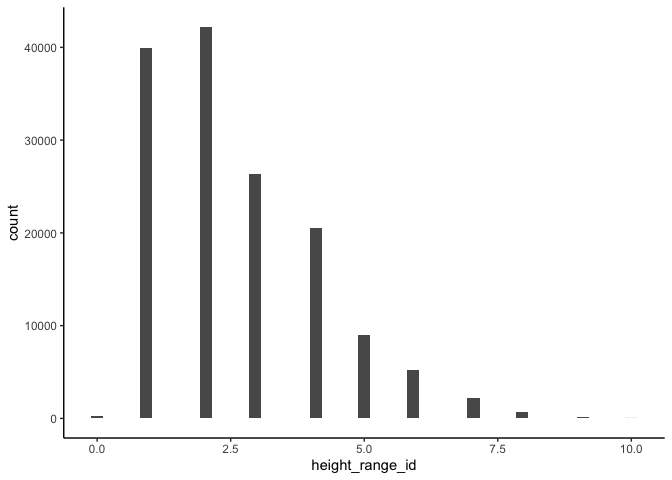
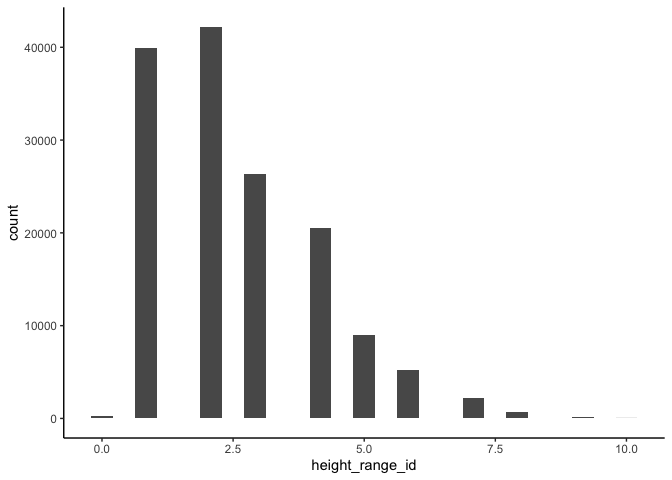
Trimming diameter outliers in excercise 2, completed task 3

diff --git a/MDA.md b/MDA.md
@@ -1,7 +1,26 @@
 Mini data analysis
 ================
 Katie Tjaden-McClement
-October 10, 2021
+October 12, 2021
+
+-   [Introduction](#introduction)
+-   [**Task 1**](#task-1)
+    -   [1.1 Initial Dataset Selection](#11-initial-dataset-selection)
+    -   [1.2 Dataset Exploration](#12-dataset-exploration)
+    -   [1.3 Narrowing down dataset
+        choice](#13-narrowing-down-dataset-choice)
+    -   [1.4 Potential research
+        questions](#14-potential-research-questions)
+-   [**Task 2**](#task-2)
+    -   [Excercise 1: Visualize missing
+        values](#excercise-1-visualize-missing-values)
+    -   [Excercise 2: Distribution of tree size
+        metrics](#excercise-2-distribution-of-tree-size-metrics)
+    -   [Excercise 3: Log-transforming size
+        metrics](#excercise-3-log-transforming-size-metrics)
+    -   [Excercise 4: Relationship between root\_barrier and
+        diameter](#excercise-4-relationship-between-root_barrier-and-diameter)
+-   [**Task 3**](#task-3)
 
 ### Introduction
 
@@ -184,7 +203,7 @@ research questions it will allow me to explore.
 Before diving into exploring the *vancouver\_trees* dataset I read
 through the [dataset
 documentation](https://opendata.vancouver.ca/explore/dataset/street-trees/information/?disjunctive.species_name&disjunctive.common_name&disjunctive.height_range_id)
-to get a clearer understanding of what the different variable are and
+to get a clearer understanding of what the different variables are and
 how the data was collected.
 
 I will also load the dataset into my R environment, renaming it to the
@@ -197,7 +216,7 @@ trees <- vancouver_trees
 trees$root_barrier <- as.factor(trees$root_barrier)
 ```
 
-### Excersise 1: Visualize missing values
+### Excercise 1: Visualize missing values
 
 Knowing how many missing values there are throughout the dataset is
 important. The [nanier](https://github.com/njtierney/naniar) package was
@@ -217,38 +236,67 @@ but is missing significant numbers of data on the date the trees were
 planted, the cultivar, and geographic information (lat and long) to a
 lesser extent.
 
-### Excersise 2: Distribution of tree size metrics
+### Excercise 2: Distribution of tree size metrics
 
-Diameter and tree height are the numeric variables i am interested in
+Diameter and tree height are the numeric variables I am interested in
 using to answer my initial research question, so I am plotting their
-distributions using histograms.
+distributions.
 
 -   diameter:
 
 ``` r
 ggplot(trees, aes(x = diameter)) +
-  geom_histogram(bins = 45) 
+  geom_density() 
 ```
 
-![](MDA_files/figure-gfm/diameter_histogram-1.png)<!-- -->
+![](MDA_files/figure-gfm/diameter_density-1.png)<!-- -->
 
 The diameters of trees in this dataset right-skewed, with a very long
-tail to the right as visible in the above histogram. Many models will
+tail to the right as visible in the above density plot. Many models will
 assume that data is normally distributed, so this could be an issue when
 trying to answer research questions that involve diameter.
+
+Based on the extremity of the largest outliers in diameter, I am going
+to trim this dataset to include only trees with diameters less than 75
+inches. This only removes 35 of almost 150,000 total trees in the
+dataset and should avoid any of these outliers having a disproportionate
+impact in future modelling.
+
+``` r
+trees_trimmed <- filter(trees, diameter <= 75)
+nrow(trees) - nrow(trees_trimmed) # 35 trees trimmed from dataset
+```
+
+    ## [1] 35
+
+``` r
+ggplot(trees_trimmed, aes(x = diameter)) +
+  geom_density() # reduces severity of right-skew
+```
+
+![](MDA_files/figure-gfm/trimming%20trees-1.png)<!-- -->
+
+``` r
+trees <- trees_trimmed # saving as "trees" again to shorten object name going forward
+```
 
 -   height:
 
 ``` r
 ggplot(trees, aes(x = height_range_id)) +
-  geom_histogram(bins = 45) 
+  geom_histogram(bins = 25)
 ```
 
 ![](MDA_files/figure-gfm/height_histogram-1.png)<!-- -->
 
 Height is also right-skewed, though to a lesser extent than diameter.
+Because the hieght data is already binned into 10 height range
+categories, with the final catergory being trees 100+ meters tall, any
+outliners in height are already accounted for in this grouping, and so
+won’t have a detrimental effect when using height to answer research
+questions.
 
-## Excersie 3: Log-transforming size metrics
+### Excercise 3: Log-transforming size metrics
 
 Creating new variables in the trees dataset of log transformed diameter
 and height may solve the problems of the right-skew we found above.
@@ -293,7 +341,7 @@ summary(trees$root_barrier)
 ```
 
     ##      N      Y 
-    ## 137455   9156
+    ## 137422   9154
 
 There are almost 10,000 trees with root barriers, which is a large
 enough sample size to continue with investigations of their effects.
@@ -301,11 +349,61 @@ enough sample size to continue with investigations of their effects.
 Using the log\_diameter variable I created in the previous step (because
 it is more normally distributed than the original diameter variable) I
 want to visualize the relationship between root barriers and tree
-diameter using a boxplot:
+diameter using a density plot:
 
 ``` r
-ggplot(trees, aes(x = root_barrier, y = log_diameter)) + 
-  geom_boxplot()
+ggplot(trees, aes(x = log_diameter)) + 
+  geom_density(aes(fill = root_barrier), alpha = 0.5)
 ```
 
-![](MDA_files/figure-gfm/barrier_diameter_boxplot-1.png)<!-- -->
+![](MDA_files/figure-gfm/barrier_diameter_density-1.png)<!-- -->
+
+This exploratory plot of the relationship between root barriers and log
+diameter shows that trees without root barriers tend to have a longer
+diameter.
+
+## **Task 3**
+
+Research questions to answer with the *vancouver\_trees* data:
+
+1.  How does having a root barrier relate to tree size as measured by
+    diameter and height?
+    -   This was my initial question after glimpsing the dataset, and
+        after the exploration above I think this is an intriguing
+        question to continue to explore.
+2.  How does tree biomass (measured as a combination of number of trees
+    and their size) vary across neighbourhoods?
+    -   In walking around Vancouver, there seem to be some
+        neighbourhoods with many large, old trees while some other
+        neighbourhoods seem to have only few and/or very small trees. I
+        would like to see if this observation holds up in the data, and
+        which neighbourhoods have the most trees.
+3.  What is the spatial distribution of cherry trees in Vancouver?
+    -   Since this dataset contains latitude and longitude information
+        for (most of) the trees, I would love to take advantage of this
+        to dive into some R Spatial work, with the added benefit of
+        finding out where the highest concentrations of cherry trees are
+        in the city for prime springtime cherry blossom viewing.
+    -   The following code chunk subsets the trees dataset to just
+        cherry trees (based on having the word “cherry” in the common
+        name) - there are 40 different species fo cherry trees in this
+        dataset!
+
+    ``` r
+    cherry_trees <- trees %>% 
+      filter(grepl("CHERRY", common_name))
+
+    length(unique(cherry_trees$common_name))
+    ```
+
+        ## [1] 40
+4.  What is the relationship between plant\_area (whether the tree is in
+    a sidewalk cutout, gate, behind sidewalk, or in boulevards or
+    varying widths) and tree size as measured by diameter and height?
+    -   I am interested in knowing whether trees in grates or cutouts,
+        for example, tend to be smaller than those on boulevards, and
+        within trees on boulevards if they tend to increase in size with
+        increasing boulevard width. In a dressing this question it would
+        also be interesting to explore whether certain plant\_area
+        categories are more likely to have root barriers in place,
+        relating back to question 1.
